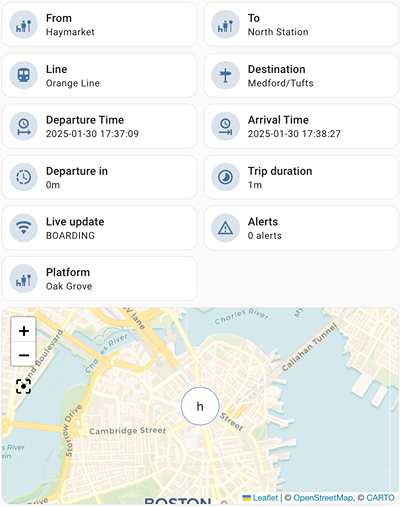
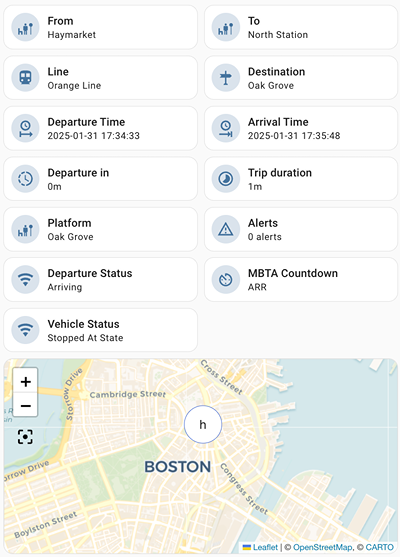
2.0.8 (#14)
* readme

* scan time from 15 to 30 sec

* img description

* sensors review

* new imgs

---------

diff --git a/custom_components/mbtalive/sensor.py b/custom_components/mbtalive/sensor.py
@@ -344,9 +344,85 @@ class MBTARouteColorSensor(MBTABaseTripSensor):
         
         
 #VEHICLE
+class MBTAVehicleStatusSensor(MBTABaseTripSensor):
+    """Sensor for vehicle status."""
+
+    @property
+    def state(self):
+        """Return the state of the sensor."""
+        if self._coordinator.data:
+            trip: Trip = self._coordinator.data[0]
+            if trip.vehicle_status:
+                return trip.vehicle_status
+        return "unavailable"
+
+    @property
+    def extra_state_attributes(self):
+        """Return extra attributes."""
+        if self._coordinator.data:
+            trip: Trip = self._coordinator.data[0]
+            attributes = {}
+            if trip.vehicle_updated_at:
+                attributes["updated_at"]  = trip.vehicle_updated_at.replace(tzinfo=None)
+            if len(self._coordinator.data) > 0:
+                next = []
+                for item in self._coordinator.data[1:]:
+                    if item.vehicle_status:
+                        next.append(item.vehicle_status)
+                if len(next) >0:
+                    attributes["next"] = next
+            return attributes  # Return the dictionary of attributes
+
+        return None
+
+class MBTAVehicleSpeedSensor(MBTABaseTripSensor):
+    """Sensor for vehicle speed."""
+
+    _attr_entity_registry_enabled_default = False  # This keeps the sensor disabled by default
+    
+    @property
+    def state(self):
+        """Return the state of the sensor."""
+        if self._coordinator.data:
+            trip: Trip = self._coordinator.data[0]
+            if trip.vehicle_speed:
+                return trip.vehicle_speed
+        return "unavailable"
+
+    @property
+    def device_class(self):
+        """Return the device class for the sensor."""
+        return SensorDeviceClass.SPEED
+
+    @property
+    def unit_of_measurement(self):
+        """Return the unit of measurement for the sensor."""
+        return "mph"
+
+    @property
+    def extra_state_attributes(self):
+        """Return extra attributes."""
+        if self._coordinator.data:
+            trip: Trip = self._coordinator.data[0]
+            attributes = {}
+            if trip.vehicle_updated_at:
+                attributes["updated_at"]  = trip.vehicle_updated_at.replace(tzinfo=None)
+            if len(self._coordinator.data) > 0:
+                next = []
+                for item in self._coordinator.data[1:]:
+                    if item.vehicle_speed:
+                        next.append(item.vehicle_speed)
+                if len(next) >0:
+                    attributes["next"] = next
+            return attributes  # Return the dictionary of attributes
+
+        return None
+    
 class MBTAVehicleLonSensor(MBTABaseTripSensor):
     """Sensor for vehicle longitude."""
 
+    _attr_entity_registry_enabled_default = False  # This keeps the sensor disabled by default
+    
     @property
     def state(self):
         """Return the state of the sensor."""
@@ -383,6 +459,8 @@ class MBTAVehicleLonSensor(MBTABaseTripSensor):
 class MBTAVehicleLatSensor(MBTABaseTripSensor):
     """Sensor for vehicle longlatitude."""
 
+    _attr_entity_registry_enabled_default = False  # This keeps the sensor disabled by default
+    
     @property
     def state(self):
         """Return the state of the sensor."""
@@ -608,8 +686,7 @@ class MBTADepartureTimeToSensor(MBTABaseTripSensor):
             if len(next) >0:
                 attributes["next"] = next
             return attributes  # Return the dictionary of attributes
-        
-        
+
 class MBTADepartureStatusSensor(MBTABaseTripSensor):
     """Sensor for departure status."""
 
@@ -631,6 +708,33 @@ class MBTADepartureStatusSensor(MBTABaseTripSensor):
             for item in self._coordinator.data[1:]:
                 if item.departure_status:
                     next.append(item.departure_status)
+            if len(next) >0:
+                attributes["next"] = next
+            return attributes  # Return the dictionary of attributes
+
+class MBTADepartureCountdownSensor(MBTABaseTripSensor):
+    """Sensor for departure countdown."""
+
+    _attr_entity_registry_enabled_default = False  # This keeps the sensor disabled by default
+    
+    @property
+    def state(self):
+        """Return the state of the sensor."""
+        if self._coordinator.data:
+            trip: Trip = self._coordinator.data[0]
+            if trip.departure_countdown:
+                return trip.departure_countdown
+        return "unavailable"
+
+    @property
+    def extra_state_attributes(self):
+        """Return extra attributes."""
+        if self._coordinator.data and len(self._coordinator.data) > 0:
+            attributes = {}
+            next = []
+            for item in self._coordinator.data[1:]:
+                if item.departure_countdown:
+                    next.append(item.departure_countdown)
             if len(next) >0:
                 attributes["next"] = next
             return attributes  # Return the dictionary of attributes
@@ -836,6 +940,33 @@ class MBTAArrivalStatusSensor(MBTABaseTripSensor):
                 attributes["next"] = next
             return attributes  # Return the dictionary of attributes
 
+class MBTAArrivalCountdownSensor(MBTABaseTripSensor):
+    """Sensor for arrival status."""
+
+    _attr_entity_registry_enabled_default = False  # This keeps the sensor disabled by default
+
+    @property
+    def state(self):
+        """Return the state of the sensor."""
+        if self._coordinator.data:
+            trip: Trip = self._coordinator.data[0]
+            if trip.arrival_countdown:
+                return trip.arrival_countdown
+        return "unavailable"
+    
+    @property
+    def extra_state_attributes(self):
+        """Return extra attributes."""
+        if self._coordinator.data and len(self._coordinator.data) > 0:
+            attributes = {}
+            next = []
+            for item in self._coordinator.data[1:]:
+                if item.arrival_countdown:
+                    next.append(item.arrival_countdown)
+            if len(next) >0:
+                attributes["next"] = next
+            return attributes  # Return the dictionary of attributes
+        
 #ALERTS
 class MBTAAlertsSensor(MBTABaseTripSensor):
     """Sensor for trip alerts."""
@@ -915,10 +1046,12 @@ async def async_setup_entry(
             MBTAHeadsignSensor(config_entry_name=name,config_entry_id=config_entry_id,coordinator=coordinator,sensor_name="Headsign",icon="mdi:sign-direction"),
             MBTADestinationSensor(config_entry_name=name,config_entry_id=config_entry_id,coordinator=coordinator,sensor_name="Destination",icon="mdi:sign-direction"),
             MBTADirectionSensor(config_entry_name=name,config_entry_id=config_entry_id,coordinator=coordinator,sensor_name="Direction",icon="mdi:sign-direction"),
-            MBTADurationSensor(config_entry_name=name,config_entry_id=config_entry_id,coordinator=coordinator,sensor_name="Duration",icon="mdi:timelapse"),  
+            MBTADurationSensor(config_entry_name=name,config_entry_id=config_entry_id,coordinator=coordinator,sensor_name="Duration",icon="mdi:timelapse"),
             MBTARouteNameSensor(config_entry_name=name,config_entry_id=config_entry_id,coordinator=coordinator,sensor_name="Line",icon=icon),
             MBTARouteTypeSensor(config_entry_name=name,config_entry_id=config_entry_id,coordinator=coordinator,sensor_name="Type",icon=icon),
             MBTARouteColorSensor(config_entry_name=name,config_entry_id=config_entry_id,coordinator=coordinator,sensor_name="Color",icon=icon),
+            MBTAVehicleStatusSensor(config_entry_name=name,config_entry_id=config_entry_id,coordinator=coordinator,sensor_name="Vehicle Status",icon="mdi:wifi"),
+            MBTAVehicleSpeedSensor(config_entry_name=name,config_entry_id=config_entry_id,coordinator=coordinator,sensor_name="Vehicle Speed",icon="mdi:speedometer"),
             MBTAVehicleLonSensor(config_entry_name=name,config_entry_id=config_entry_id,coordinator=coordinator,sensor_name="Vehicle Longitude",icon="mdi:map-marker"),
             MBTAVehicleLatSensor(config_entry_name=name,config_entry_id=config_entry_id,coordinator=coordinator,sensor_name="Vehicle Latitude",icon="mdi:map-marker"),
             MBTAVehicleLastUpdateSensor(config_entry_name=name,config_entry_id=config_entry_id,coordinator=coordinator,sensor_name="Vehicle Last Update",icon="mdi:update"),
@@ -926,12 +1059,14 @@ async def async_setup_entry(
             MBTADepartureTimeSensor(config_entry_name=name,config_entry_id=config_entry_id,coordinator=coordinator,sensor_name="Departure Time",icon="mdi:clock-start"),
             MBTADepartureDelaySensor(config_entry_name=name,config_entry_id=config_entry_id,coordinator=coordinator,sensor_name="Departure Delay",icon="mdi:clock-alert-outline"),
             MBTADepartureTimeToSensor(config_entry_name=name,config_entry_id=config_entry_id,coordinator=coordinator,sensor_name="Time To Departure",icon="mdi:progress-clock"),
-            MBTADepartureStatusSensor(config_entry_name=name,config_entry_id=config_entry_id,coordinator=coordinator,sensor_name="Departure Live Status",icon="mdi:wifi"),
+            MBTADepartureStatusSensor(config_entry_name=name,config_entry_id=config_entry_id,coordinator=coordinator,sensor_name="Departure Status",icon="mdi:wifi"),
+            MBTADepartureCountdownSensor(config_entry_name=name,config_entry_id=config_entry_id,coordinator=coordinator,sensor_name="Departure MBTA Countdown",icon="mdi:av-timer"),
             MBTAArrivalNameSensor(config_entry_name=name,config_entry_id=config_entry_id,coordinator=coordinator,sensor_name="To",icon="mdi:bus-stop-uncovered"),
             MBTAArrivalTimeSensor(config_entry_name=name,config_entry_id=config_entry_id,coordinator=coordinator,sensor_name="Arrival Time",icon="mdi:clock-end"),
             MBTAArrivalDelaySensor(config_entry_name=name,config_entry_id=config_entry_id,coordinator=coordinator,sensor_name="Arrival Delay",icon="mdi:clock-alert-outline"),
             MBTAArrivalTimeToSensor(config_entry_name=name,config_entry_id=config_entry_id,coordinator=coordinator,sensor_name="Time To Arrival",icon="mdi:progress-clock"),
-            MBTAArrivalStatusSensor(config_entry_name=name,config_entry_id=config_entry_id,coordinator=coordinator,sensor_name="Arrival Live Status",icon="mdi:wifi"),
+            MBTAArrivalStatusSensor(config_entry_name=name,config_entry_id=config_entry_id,coordinator=coordinator,sensor_name="Arrival Status",icon="mdi:wifi"),
+            MBTAArrivalCountdownSensor(config_entry_name=name,config_entry_id=config_entry_id,coordinator=coordinator,sensor_name="Arrival MBTA Countdown",icon="mdi:av-timer"),
             MBTAAlertsSensor(config_entry_name=name,config_entry_id=config_entry_id,coordinator=coordinator,sensor_name="Alerts",icon="mdi:alert-outline"),
         ]
 
